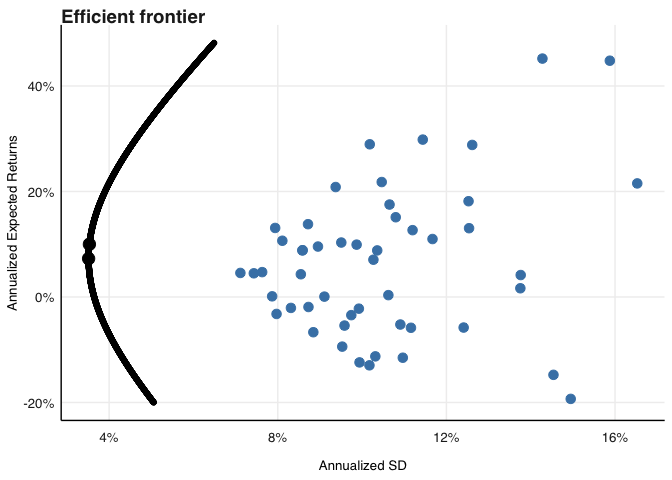
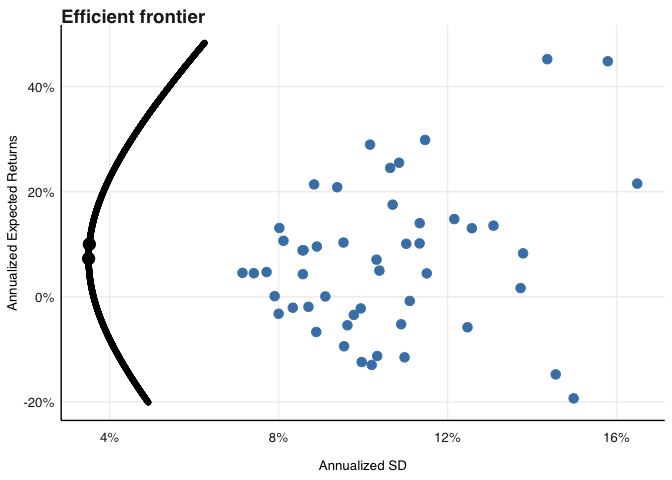
Notes

diff --git a/README.md b/README.md
@@ -13,8 +13,8 @@ gc() # garbage collection - It can be useful to call gc after a large object has
 ```
 
     ##          used (Mb) gc trigger (Mb) limit (Mb) max used (Mb)
-    ## Ncells 464982 24.9     993868 53.1         NA   669302 35.8
-    ## Vcells 871215  6.7    8388608 64.0      16384  1840208 14.1
+    ## Ncells 464982 24.9     993867 53.1         NA   669305 35.8
+    ## Vcells 871219  6.7    8388608 64.0      16384  1840207 14.1
 
 ``` r
 library(tidyverse)
@@ -513,18 +513,18 @@ bootstraped return is based only on its own distribution of returns)
 ```
 
     ## # A tibble: 90 × 6
-    ##    date          Fund_1  Fund_2   Fund_3    Fund_4    Fund_5
-    ##    <date>         <dbl>   <dbl>    <dbl>     <dbl>     <dbl>
-    ##  1 2015-01-31  0.00411   0.0107  0.0338   0.0387    0.000464
-    ##  2 2015-02-28  0.0501    0.0209  0.0457   0.00691   0.0521  
-    ##  3 2015-03-31 -0.0182   -0.0352  0.0218  -0.0218    0.00500 
-    ##  4 2015-04-30  0.0335    0.0388  0.0290   0.0379    0.0682  
-    ##  5 2015-05-31  0.000094 -0.0211 -0.0201   0.000862 -0.0432  
-    ##  6 2015-06-30 -0.0164   -0.0263 -0.00556  0.000106 -0.0181  
-    ##  7 2015-07-31  0.0576   -0.0132  0.0124   0.0508   -0.0297  
-    ##  8 2015-08-31 -0.00583  -0.0265 -0.0289  -0.0305   -0.0336  
-    ##  9 2015-09-30 -0.0317   -0.0307  0.0104   0.00994  -0.0502  
-    ## 10 2015-10-31  0.0357    0.0587  0.0631   0.0765    0.0693  
+    ##    date          Fund_1  Fund_2   Fund_3   Fund_4    Fund_5
+    ##    <date>         <dbl>   <dbl>    <dbl>    <dbl>     <dbl>
+    ##  1 2015-01-31  0.00411   0.0107  0.0338  -0.0316   0.000464
+    ##  2 2015-02-28  0.0501    0.0209  0.0457   0.0341   0.0521  
+    ##  3 2015-03-31 -0.0182   -0.0352  0.0218  -0.0105   0.00500 
+    ##  4 2015-04-30  0.0335    0.0388  0.0290  -0.0127   0.0682  
+    ##  5 2015-05-31  0.000094 -0.0211 -0.0201   0.0122  -0.0432  
+    ##  6 2015-06-30 -0.0164   -0.0263 -0.00556  0.154   -0.0181  
+    ##  7 2015-07-31  0.0576   -0.0132  0.0124   0.0303  -0.0297  
+    ##  8 2015-08-31 -0.00583  -0.0265 -0.0289  -0.0305  -0.0336  
+    ##  9 2015-09-30 -0.0317   -0.0307  0.0104   0.00994 -0.0502  
+    ## 10 2015-10-31  0.0357    0.0587  0.0631   0.0765   0.0693  
     ## # ℹ 80 more rows
 
 Now the collective distribution such that the bootstapped return is
@@ -537,13 +537,13 @@ based on the distribution of of all the stocks in the portfolio
     ## # A tibble: 90 × 6
     ##    date          Fund_1  Fund_2   Fund_3   Fund_4    Fund_5
     ##    <date>         <dbl>   <dbl>    <dbl>    <dbl>     <dbl>
-    ##  1 2015-01-31  0.00411   0.0107  0.0338   0.00969  0.000464
-    ##  2 2015-02-28  0.0501    0.0209  0.0457   0.0364   0.0521  
-    ##  3 2015-03-31 -0.0182   -0.0352  0.0218  -0.0285   0.00500 
-    ##  4 2015-04-30  0.0335    0.0388  0.0290   0.0349   0.0682  
-    ##  5 2015-05-31  0.000094 -0.0211 -0.0201   0.0585  -0.0432  
-    ##  6 2015-06-30 -0.0164   -0.0263 -0.00556 -0.0124  -0.0181  
-    ##  7 2015-07-31  0.0576   -0.0132  0.0124   0.0242  -0.0297  
+    ##  1 2015-01-31  0.00411   0.0107  0.0338  -0.0376   0.000464
+    ##  2 2015-02-28  0.0501    0.0209  0.0457  -0.0109   0.0521  
+    ##  3 2015-03-31 -0.0182   -0.0352  0.0218   0.0143   0.00500 
+    ##  4 2015-04-30  0.0335    0.0388  0.0290   0.0669   0.0682  
+    ##  5 2015-05-31  0.000094 -0.0211 -0.0201   0.0295  -0.0432  
+    ##  6 2015-06-30 -0.0164   -0.0263 -0.00556  0.0143  -0.0181  
+    ##  7 2015-07-31  0.0576   -0.0132  0.0124   0.0250  -0.0297  
     ##  8 2015-08-31 -0.00583  -0.0265 -0.0289  -0.0305  -0.0336  
     ##  9 2015-09-30 -0.0317   -0.0307  0.0104   0.00994 -0.0502  
     ## 10 2015-10-31  0.0357    0.0587  0.0631   0.0765   0.0693  
@@ -554,7 +554,7 @@ based on the distribution of of all the stocks in the portfolio
 impute_missing_returns(return_mat_Quick, impute_returns_method = "Drawn_Distribution_Own") %>% pull(Fund_4) %>% sd()
 ```
 
-    ## [1] 0.04064415
+    ## [1] 0.04346215
 
 ``` r
 return_mat_Quick %>% pull(Fund_4) %>% sd(., na.rm=T)
@@ -769,7 +769,7 @@ library(quadprog)
 NStox <- ncol( return_mat_Nodate )
 LB = 0.01
 UB = 0.25
-meq = 1 # as only the first column of Amat is an equality (weight sum equals 1)
+meq = 1 # as only the first column of Amat is an equality (weight sum equals 1) If have differnet asset classes eg 2 different classes then this would become 3
 
 bvec <- c( 1, rep(LB, NStox), -rep(UB, NStox))
 Amat <- cbind(1, diag(NStox), -diag(NStox))
@@ -792,7 +792,7 @@ Amat <- cbind(1, diag(NStox), -diag(NStox))
     ##    stocks         weight
     ##    <chr>           <dbl>
     ##  1 ADS GR Equity  0.01  
-    ##  2 AFX GR Equity  0.01  
+    ##  2 AFX GR Equity  0.0300
     ##  3 AIR GR Equity  0.0100
     ##  4 ALV GR Equity  0.0100
     ##  5 AT1 GR Equity  0.0100
@@ -876,7 +876,7 @@ tibble(
     ## # A tibble: 1 × 2
     ##   average_ret_Ann volatility_Ann
     ##             <dbl>          <dbl>
-    ## 1          0.0727          0.161
+    ## 1          0.0726          0.160
 
 ## MVO
 
@@ -1249,16 +1249,16 @@ My_Weights
     ## # A tibble: 70 × 5
     ##    Tickers            mv  minvol     erc riskeff
     ##    <chr>           <dbl>   <dbl>   <dbl>   <dbl>
-    ##  1 1COV GR Equity 0.0143 0.00662 0.0162   0.0143
-    ##  2 ADS GR Equity  0.0143 0.001   0.00909  0.0143
-    ##  3 AFX GR Equity  0.0143 0.001   0.0118   0.0143
-    ##  4 AIR GR Equity  0.0143 0.00100 0.00877  0.0143
-    ##  5 ALV GR Equity  0.0143 0.00100 0.00800  0.0143
-    ##  6 AT1 GR Equity  0.0143 0.0570  0.0341   0.0143
-    ##  7 B4B GR Equity  0.0143 0.0530  0.0314   0.0143
-    ##  8 BAS GR Equity  0.0143 0.00100 0.00773  0.0143
-    ##  9 BAYN GR Equity 0.0143 0.00100 0.00832  0.0143
-    ## 10 BC8 GR Equity  0.0143 0.00100 0.00793  0.0143
+    ##  1 1COV GR Equity 0.0143 0.0132  0.0159   0.0143
+    ##  2 ADS GR Equity  0.0143 0.001   0.00911  0.0143
+    ##  3 AFX GR Equity  0.0143 0.001   0.0117   0.0143
+    ##  4 AIR GR Equity  0.0143 0.00100 0.00876  0.0143
+    ##  5 ALV GR Equity  0.0143 0.001   0.00798  0.0143
+    ##  6 AT1 GR Equity  0.0143 0.0614  0.0343   0.0143
+    ##  7 B4B GR Equity  0.0143 0.0571  0.0360   0.0143
+    ##  8 BAS GR Equity  0.0143 0.00100 0.00775  0.0143
+    ##  9 BAYN GR Equity 0.0143 0.00100 0.00826  0.0143
+    ## 10 BC8 GR Equity  0.0143 0.00100 0.00799  0.0143
     ## # ℹ 60 more rows
 
 Let’s now apply the latter function in a way to make it rolling (by
@@ -1327,14 +1327,14 @@ Result
     ## # A tibble: 8,540 × 7
     ##    Tickers            mv  minvol     erc riskeff date       Look_Back_Period
     ##    <chr>           <dbl>   <dbl>   <dbl>   <dbl> <date>                <dbl>
-    ##  1 1COV GR Equity 0.0143 0.00662 0.0162   0.0143 2010-01-29               36
-    ##  2 ADS GR Equity  0.0143 0.001   0.00909  0.0143 2010-01-29               36
-    ##  3 AFX GR Equity  0.0143 0.001   0.0118   0.0143 2010-01-29               36
-    ##  4 AIR GR Equity  0.0143 0.00100 0.00877  0.0143 2010-01-29               36
-    ##  5 ALV GR Equity  0.0143 0.00100 0.00800  0.0143 2010-01-29               36
-    ##  6 AT1 GR Equity  0.0143 0.0570  0.0341   0.0143 2010-01-29               36
-    ##  7 B4B GR Equity  0.0143 0.0530  0.0314   0.0143 2010-01-29               36
-    ##  8 BAS GR Equity  0.0143 0.00100 0.00773  0.0143 2010-01-29               36
-    ##  9 BAYN GR Equity 0.0143 0.00100 0.00832  0.0143 2010-01-29               36
-    ## 10 BC8 GR Equity  0.0143 0.00100 0.00793  0.0143 2010-01-29               36
+    ##  1 1COV GR Equity 0.0143 0.0132  0.0159   0.0143 2010-01-29               36
+    ##  2 ADS GR Equity  0.0143 0.001   0.00911  0.0143 2010-01-29               36
+    ##  3 AFX GR Equity  0.0143 0.001   0.0117   0.0143 2010-01-29               36
+    ##  4 AIR GR Equity  0.0143 0.00100 0.00876  0.0143 2010-01-29               36
+    ##  5 ALV GR Equity  0.0143 0.001   0.00798  0.0143 2010-01-29               36
+    ##  6 AT1 GR Equity  0.0143 0.0614  0.0343   0.0143 2010-01-29               36
+    ##  7 B4B GR Equity  0.0143 0.0571  0.0360   0.0143 2010-01-29               36
+    ##  8 BAS GR Equity  0.0143 0.00100 0.00775  0.0143 2010-01-29               36
+    ##  9 BAYN GR Equity 0.0143 0.00100 0.00826  0.0143 2010-01-29               36
+    ## 10 BC8 GR Equity  0.0143 0.00100 0.00799  0.0143 2010-01-29               36
     ## # ℹ 8,530 more rows
